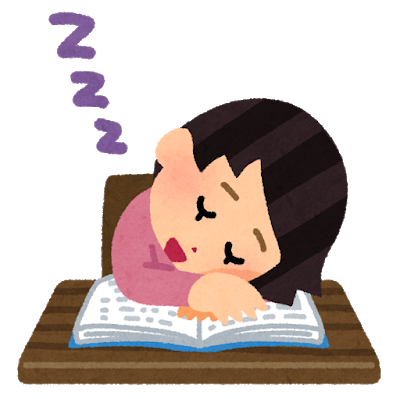
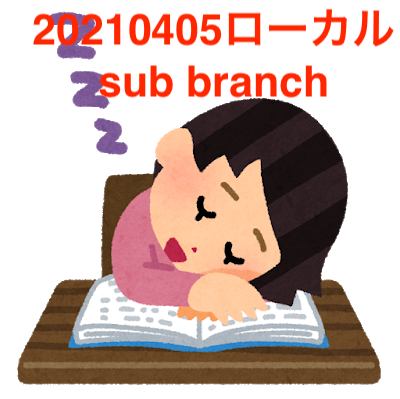
Image and Text change

Changed region(s): [[0.06, 0.0, 0.99, 0.1203], [0.24, 0.1504, 0.84, 0.2707]]

diff --git a/README.md b/README.md
@@ -3,3 +3,5 @@
 
 このファイルは練習用のものです。
 好きなことを書いてください。
+
+20210405_ローカルsub branchで編集
